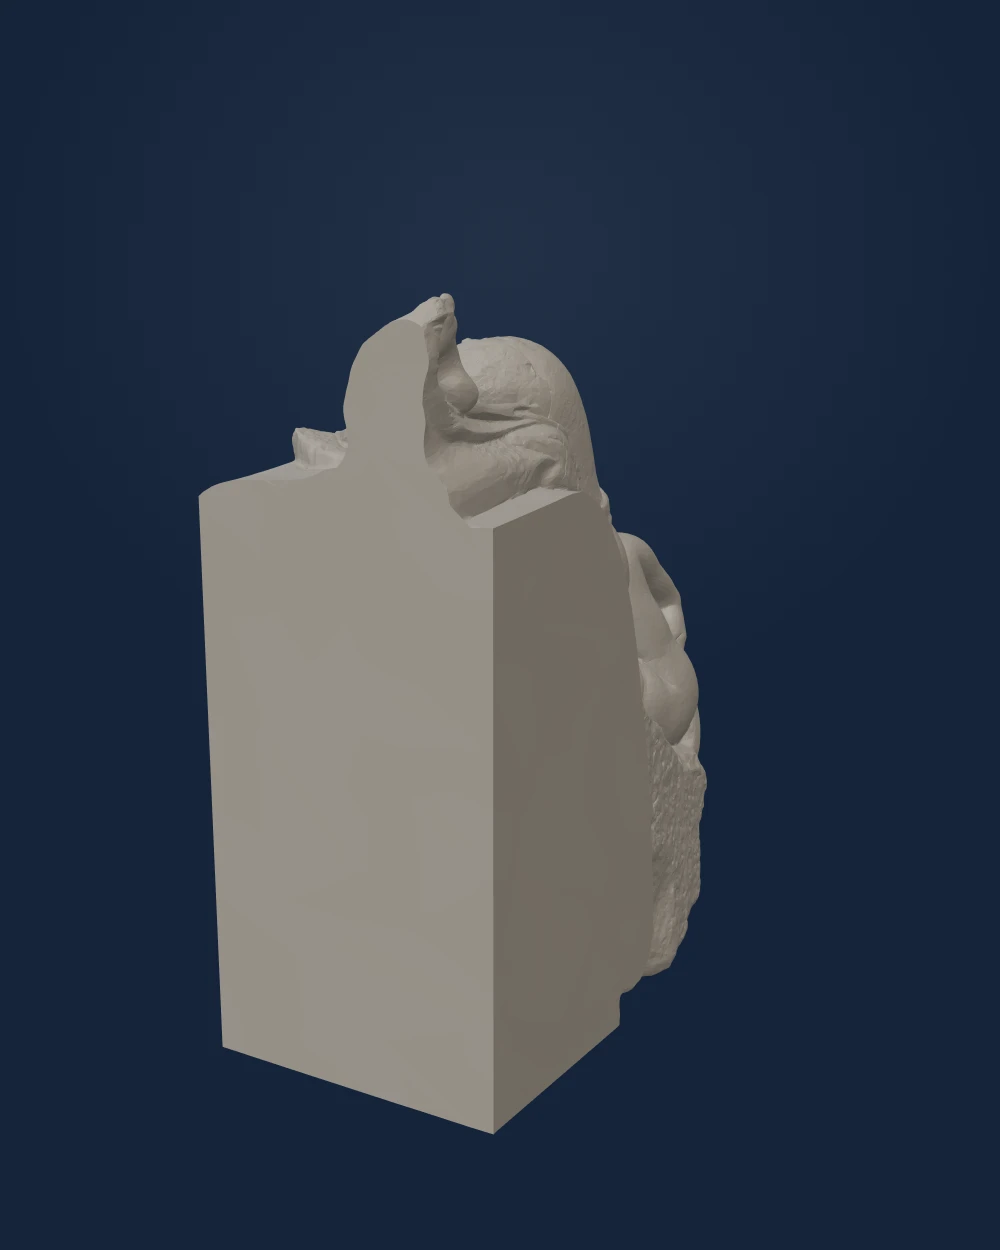
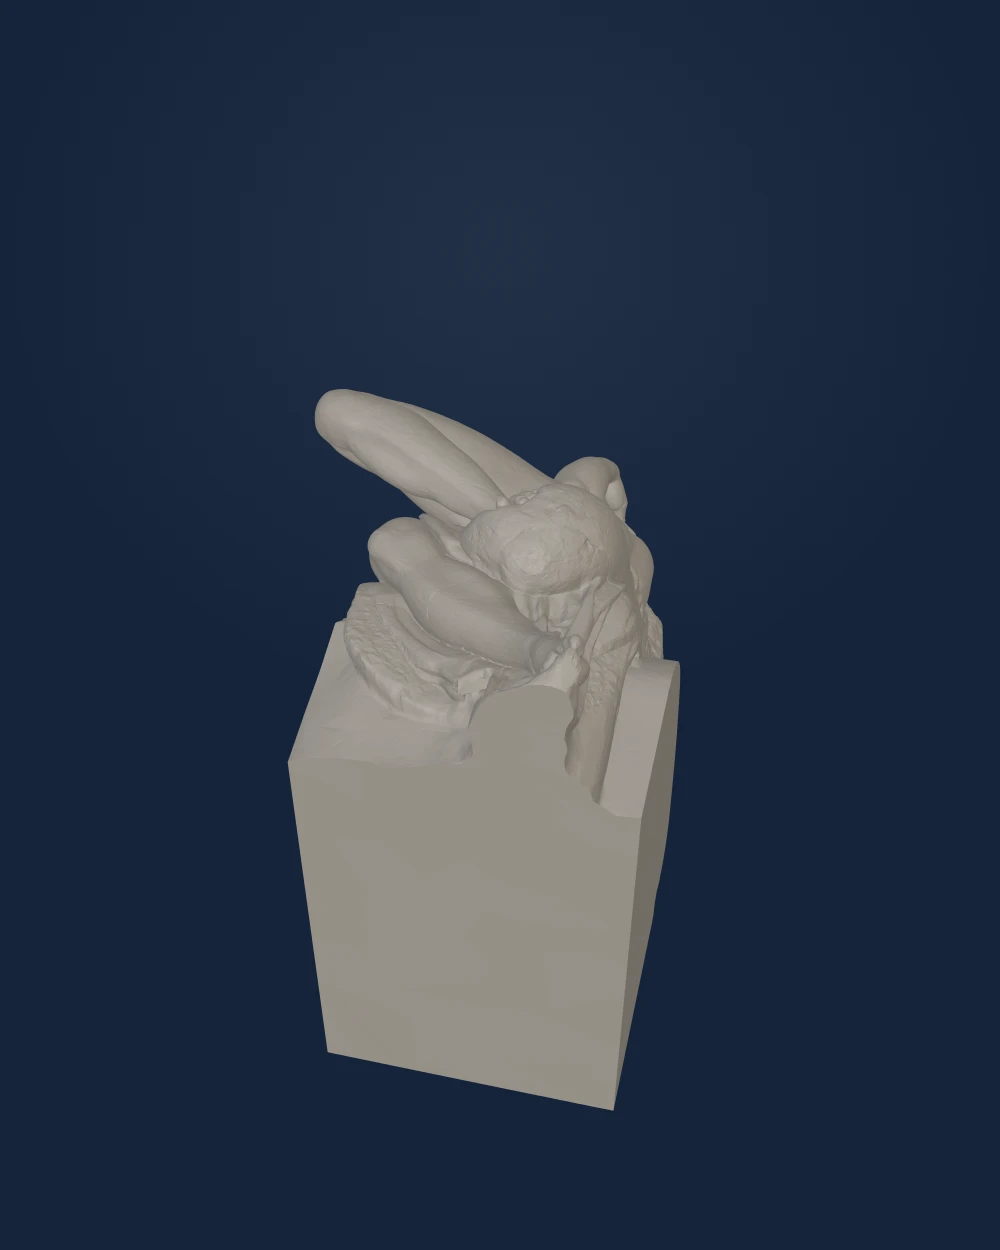
Fix front-facing views for misoriented works

Changed region(s): [[0.186, 0.2184, 0.713, 0.9048]]

diff --git a/src/lib/catalog.ts b/src/lib/catalog.ts
@@ -51,6 +51,8 @@ type OrientationEntry = string | {
   yaw?: number;
   modelRotation?: number[];
   rotation?: number[];
+  viewDirection?: number[];
+  cameraDirection?: number[];
   status?: string;
   note?: string;
 };
@@ -60,6 +62,7 @@ export type ModelTransform = {
   fit: number;
   yaw: number;
   modelRotation: [number, number, number];
+  viewDirection?: [number, number, number];
   status?: string;
   note?: string;
 };
@@ -247,6 +250,16 @@ function rotationArray(value: unknown): [number, number, number] {
   ];
 }
 
+function optionalVector3(value: unknown): [number, number, number] | undefined {
+  if (!Array.isArray(value) || value.length !== 3) return undefined;
+  const next = [
+    finiteNumber(value[0], Number.NaN),
+    finiteNumber(value[1], Number.NaN),
+    finiteNumber(value[2], Number.NaN),
+  ] as [number, number, number];
+  return next.every(Number.isFinite) ? next : undefined;
+}
+
 function parseLegacyTransform(value: unknown): ModelTransform {
   const [rawAxis, rawFit, rawYaw] = String(value || 'auto').toLowerCase().split(':');
   const upAxis = ['auto', 'x', 'y', 'z'].includes(rawAxis) ? rawAxis : 'auto';
@@ -265,6 +278,7 @@ function modelTransformFor(entry: OrientationEntry | undefined): ModelTransform 
   const rawAxis = clean(entry.upAxis || entry.axis || fallback.upAxis).toLowerCase();
   const upAxis = ['auto', 'x', 'y', 'z'].includes(rawAxis) ? rawAxis : fallback.upAxis;
   const fit = finiteNumber(entry.fit, fallback.fit);
+  const viewDirection = optionalVector3(entry.viewDirection || entry.cameraDirection);
   return {
     status: entry.status,
     note: entry.note,
@@ -272,6 +286,7 @@ function modelTransformFor(entry: OrientationEntry | undefined): ModelTransform 
     fit: fit > 0 ? fit : 0,
     yaw: finiteNumber(entry.yaw, fallback.yaw),
     modelRotation: rotationArray(entry.modelRotation || entry.rotation),
+    ...(viewDirection ? { viewDirection } : {}),
   };
 }
 

diff --git a/public/model-render-utils.js b/public/model-render-utils.js
@@ -10,6 +10,12 @@ function rotationArray(value) {
   return value.map((item) => finiteNumber(item, 0));
 }
 
+function vector3Array(value) {
+  if (!Array.isArray(value) || value.length !== 3) return undefined;
+  const next = value.map((item) => finiteNumber(item, Number.NaN));
+  return next.every(Number.isFinite) ? next : undefined;
+}
+
 function parseLegacyTransform(value) {
   const [rawAxis, rawFit, rawYaw] = String(value || 'auto').toLowerCase().split(':');
   const upAxis = AXES.has(rawAxis) ? rawAxis : 'auto';
@@ -43,6 +49,7 @@ export function parseModelTransform(value, fallback = 'auto') {
     : legacy.upAxis;
   const fit = finiteNumber(value.fit, legacy.fit);
   const yaw = finiteNumber(value.yaw, legacy.yaw);
+  const viewDirection = vector3Array(value.viewDirection || value.cameraDirection);
 
   return {
     ...value,
@@ -50,6 +57,7 @@ export function parseModelTransform(value, fallback = 'auto') {
     fit: fit > 0 ? fit : 0,
     yaw,
     modelRotation: rotationArray(value.modelRotation || value.rotation),
+    viewDirection,
   };
 }
 

diff --git a/public/__render.html b/public/__render.html
@@ -191,7 +191,7 @@ window.loadModel=(url, rawTransform='auto', rawAppearance='{}', upAxis='auto')=>
     scene.add(m); current=m;
     const isWideLow=Math.max(size.x,size.z)>Math.max(size.y*1.8,0.65);
     frameCameraToBox(THREE, camera, box, {
-      direction:[0.55,0.34,0.9],
+      direction:transform.viewDirection || [0.55,0.34,0.9],
       padding:transform.fit || (isWideLow?1.26:1.16)
     });
     setTimeout(()=>res(true),350);